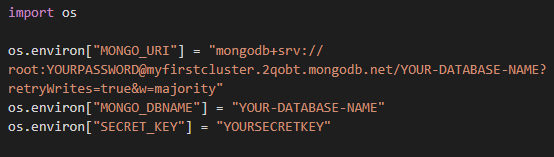
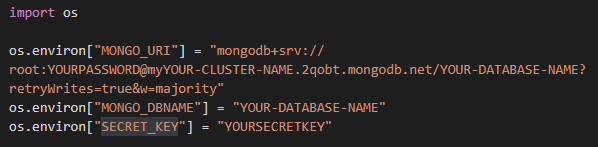
Add steps to heroku deployment in readme.md

Changed region(s): [[0.0, 0.2721, 1.0, 0.9252], [0.0, 0.0544, 0.1534, 0.1361]]

diff --git a/README.md b/README.md
@@ -192,47 +192,62 @@ To work with the local copy that is created the following steps needs to be take
 2. In the terminal window of your IDE type in: **pip3 install -r requirements.txt**
 
 
-#### Step 2: Creating collections in MongoDB
+#### Step 2: Creating Collections in MongoDB
 1. Login to your MongoDB account
-2. Create a database and create a database name
-3. Create four collections in the database named:
+2. Create a **cluster**
+3. Create a **database**
+4. Create four **collections** in the database named:
     - **categories**
     - **preptime**
     - **recipes**
     - **users**
-4. Add string names for [categories](https://github.com/MatthewYong/recipes-connected/raw/master/static/images/readme-images/image-categories.png) and [preptime](https://github.com/MatthewYong/recipes-connected/raw/master/static/images/readme-images/image-preptime.png)
+5. Add string values for [categories](https://github.com/MatthewYong/recipes-connected/raw/master/static/images/readme-images/image-categories.png) and [preptime](https://github.com/MatthewYong/recipes-connected/raw/master/static/images/readme-images/image-preptime.png) (please click on the collection name for its string values)
 
 
-#### Step 3: Setting up the enviroment variables
+#### Step 3: Setting Up the Enviroment Variables
 1. Create a file called **.gitignore** in the root directory of your project
 2. Add the following text in your .gitignore file: **env.py**
 3. Create a file called **env.py**. This will contain all your environment variables
-4. Create your own personal secret key and password. In **env.py** add the following text as seen in the screenshot below and replace **YOURPASSWORD**, **YOUR-DATABASE-NAME** and **YOURSECRETKEY**
+4. Create your own personal secret key and password. In **env.py** add the following text as seen in the screenshot below and replace **YOURPASSWORD**, **YOUR-CLUSTER-NAME**, **YOUR-DATABASE-NAME** and **YOURSECRETKEY**
 
 ![alt text][environment-variables]
 
 [environment-variables]: https://raw.githubusercontent.com/MatthewYong/recipes-connected/master/static/images/readme-images/image-environment-variables.png
 
-
-#### Step 4: Run the app
+#### Step 4: Run the App
 1. Open your terminal window in your IDE
 2. Type in **python3 app.py** to run the app
-
-
-
 
 
 ### Heroku Deployment
 To host this project on Heroku the following steps needs to be taken:
 
+#### Step 1: Setting up Heroku
+1. Create a Heroku account and create a new app
+2. 
 
+#### Step 2: Preparing Local Workspace for Heroku
+1. In the terminal window of your local IDE type **pip3 freeze --local > requirements.txt** to create a requirements.txt file. This file is needed so that Heroku knows which files needs to be installed
+2. In the terminal window of your local IDE type **python app.py > Procfile** to create a Procfile. This file is needed so that Heroku knows which file is needed as its entry point to get the app up and running
 
+#### Step 3: Pushing files to Heroku 
+1. In the terminal window of your local IDE type **heroku login** or **heroku login -i** and fill in your heroku credentials and password
+2. Commit all your files and type in the same terminal window **git push heroku master**. Now all your files are commited to Heroku
 
+#### Step 4: Setting the Configuration Variables in Heroku
+1. Go back to your Heroku account and go to **settings**
+2. Click on **Reveal Config Vars** to reveal the keys and the values
+3. Set the keys and values as follow:
+    (**KEY: VALUE**)
+    - IP: 0.0.0.0
+    - PORT: 5000
+    - MONGO_DBNAME: YOUR-DATABASE-NAME
+    - MONGO_URI: mongodb+srv://root:**YOURPASSWORD**@**YOUR-CLUSTER-NAME**.2qobt.mongodb.net/**YOUR-DATABASE-NAME**?retryWrites=true&w=majority
+    - SECRET_KEY: YOURSECRETKEY
 
-
-
-
-
+#### Step 5: Open App in Heroku
+1. Click on **Open app** in right corner of your Heroku account, the appliciation will open in a new window
+2. The live link is available from the address bar
 
 
 ## Credits
